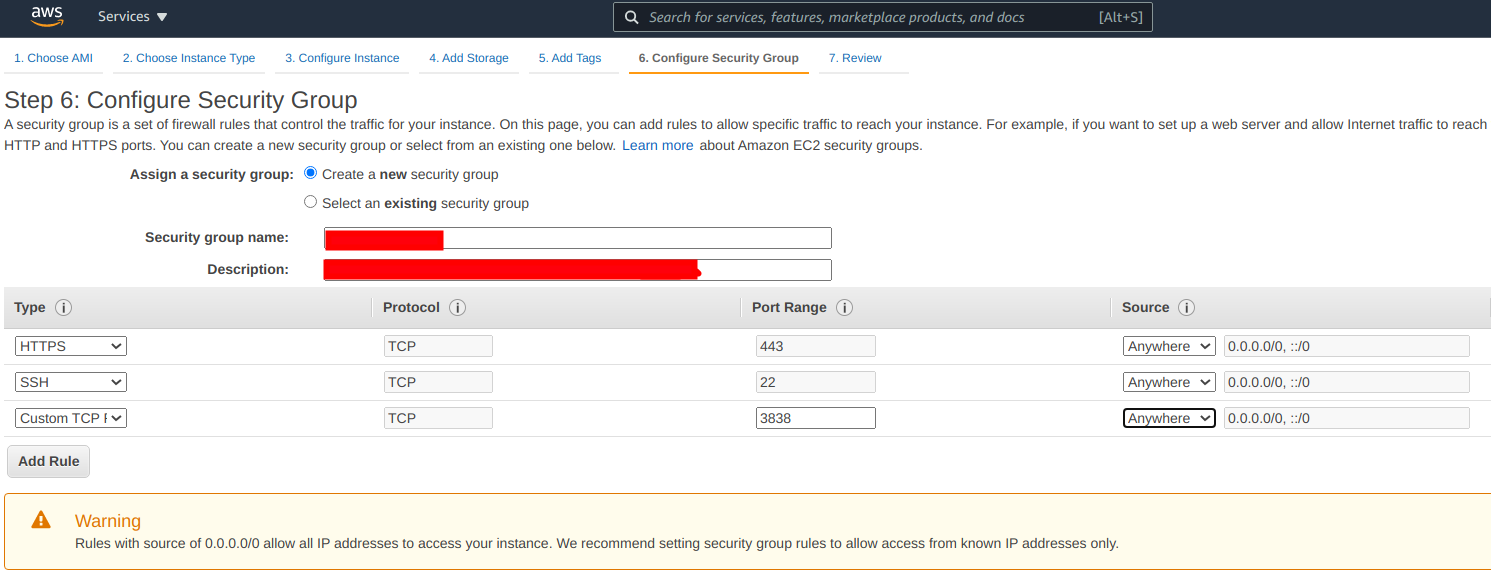
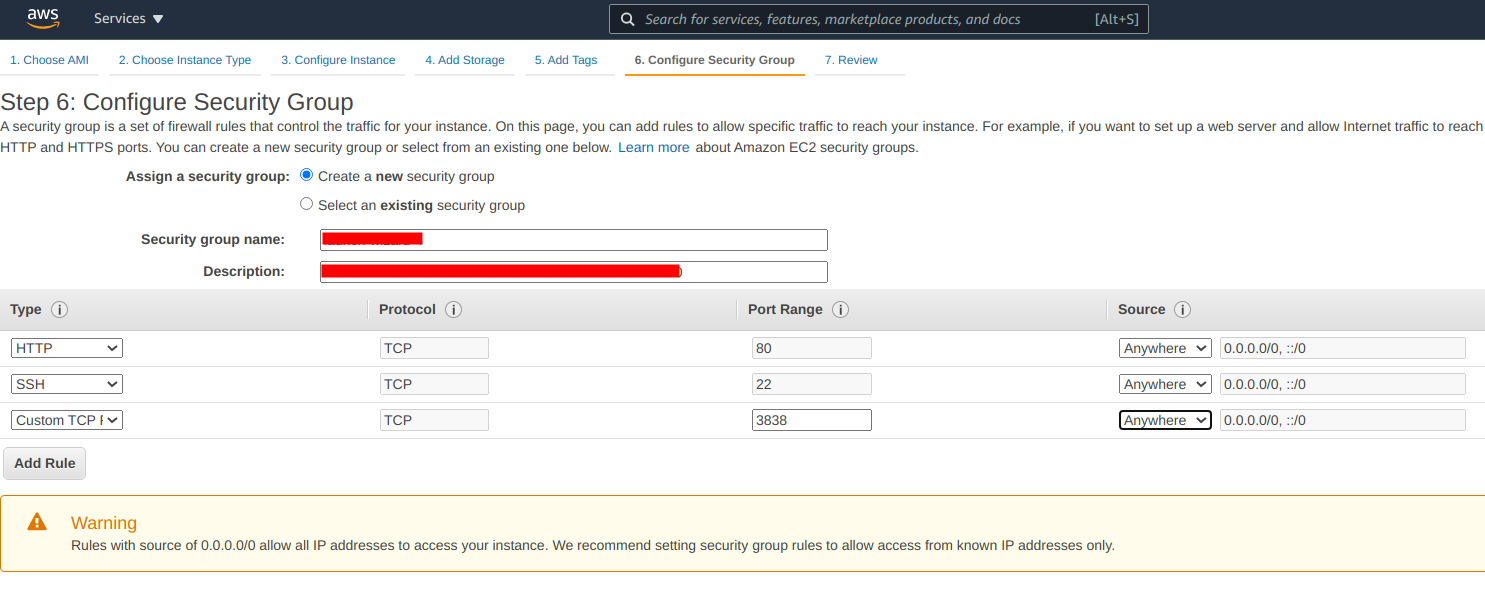
change img

Changed region(s): [[0.0, 0.1544, 1.0, 0.9571], [0.0, 0.0, 1.0, 0.1235]]

diff --git a/README.md b/README.md
@@ -11,6 +11,7 @@ I assume you have installed [docker](https://www.docker.com/products/docker-desk
 Clone this repository in some location on your pc. Open the terminal and go to the `shiny_docker_exampple` you just cloned. With the next command you will build the image from the Dockerfile (if you are using Windows, just remove the `sudo`):
 
 ```
+# don't forget the point!
 sudo docker build -t shiny_image .
 ```
 
@@ -25,9 +26,10 @@ Now, if you go to [http://0.0.0.0/](http://0.0.0.0/) we can see that the app is 
 
 ### Running a shiny with docker in AWS
 
-Launch an instance in the cloud. I have used AWS Ubuntu Server 20.04 LTS/64 bits (x86)/t2.micro and the next options for the security:
+Launch an instance in the cloud. I have used AWS Ubuntu Server 20.04 LTS/64 bits (x86)/t2.micro and the next options for the `Edit security group`:
 
-![terminal connected to AWS](aws_inbound_rules_shiny.png "Rules for AWS Shiny app")
+<img src="aws_inbound_rules_shiny.png" alt="Rules for AWS Shiny app" width="200"/>
+
 
 Connect your terminal with the instance. In AWS the easiest way is using a pem file.
 
@@ -35,3 +37,35 @@ You should see something like this:
 
 ![terminal connected to AWS](terminal_connected.png "Terminal connected to AWS")
 
+You already has git installed (you can check writing `git` on the console). Now, install docker using [the commands from its web](https://docs.docker.com/engine/install/ubuntu/). Probably they will be like these:
+
+```
+sudo apt-get update
+sudo apt-get install \
+    apt-transport-https \
+    ca-certificates \
+    curl \
+    gnupg \
+    lsb-release
+curl -fsSL https://download.docker.com/linux/ubuntu/gpg | sudo gpg --dearmor -o /usr/share/keyrings/docker-archive-keyring.gpg
+
+echo \
+  "deb [arch=amd64 signed-by=/usr/share/keyrings/docker-archive-keyring.gpg] https://download.docker.com/linux/ubuntu \
+  $(lsb_release -cs) stable" | sudo tee /etc/apt/sources.list.d/docker.list > /dev/null
+
+sudo apt-get update
+sudo apt-get install docker-ce docker-ce-cli containerd.io
+```
+
+To check if all is correct, try `sudo docker run hello-world`.
+
+Now, just clone this repository and use the commands from the first part of the readme. 
+
+```
+git clone https://github.com/gustavovargas/example_shiny_docker.git
+cd example_shiny_docker
+sudo docker build -t shiny_image .
+sudo docker run --name=shiny_app --rm -p 80:3838 shiny_image
+```
+
+Just realise that your app is running in the http direction, like for example `http://3.15.188.202/`, not the https. If you want to enable the https, just follow [this instructions](https://support.rstudio.com/hc/en-us/articles/213733868-Running-Shiny-Server-with-a-Proxy)
